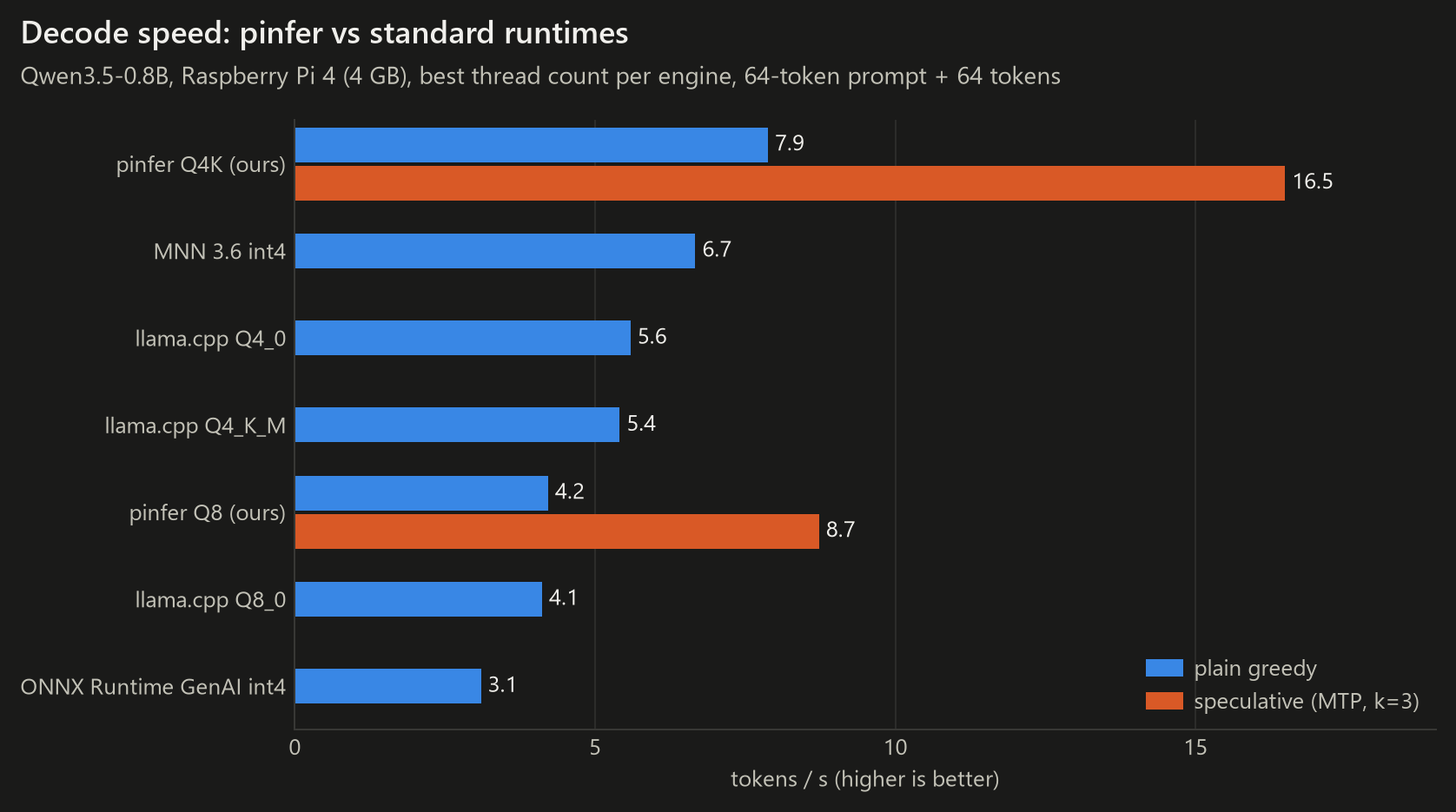
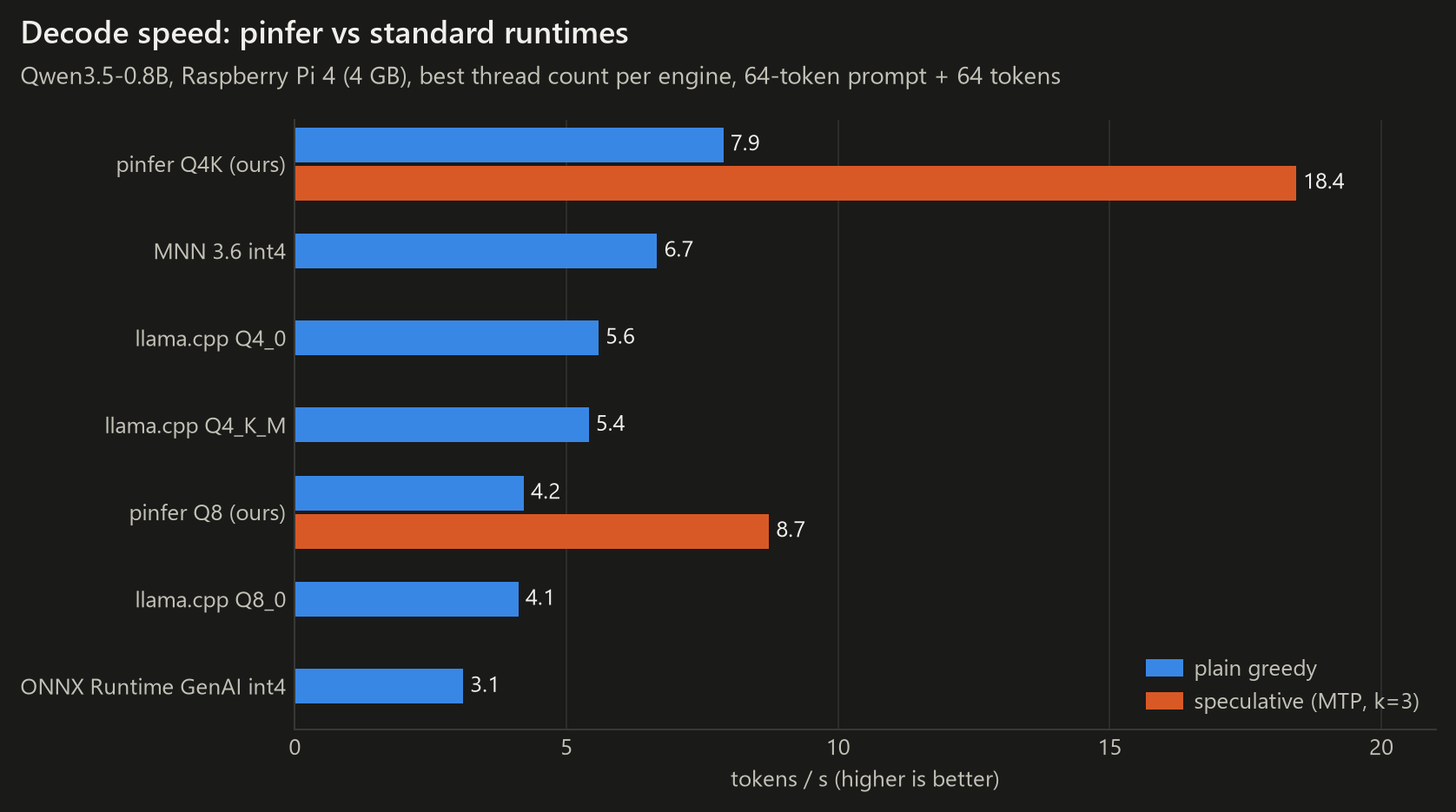
docs: README, figures and results for the merged build (18.4 tok/s, fp16 88% at 4096, pinfer serve)
- Figures re-rendered from new data, desktop and phone, light and dark: decode 18.43 tok/s
  speculative, progress with the cheaper verify pass, k sweep after it (k=3 18.2), verify pass
  153 ms = 1.20x a plain step, context length after attention round 3 (82% / 87% at 4096).
- README: title 18 tok/s; separate rows for prose continuation (18.4) and chat answers (9.9-13.5,
  k=2 best) so the headline is not read as typical chat speed; how the verify pass rolls back
  without copying state; long-context table and the met 85% target (fp16); pinfer serve usage
  with the openai SDK and the multi-turn reuse numbers; roadmap.
- docs/RESULTS.md, notes.md scoreboard and journal updated with the result files.

diff --git a/tools/make_figures.py b/tools/make_figures.py
@@ -41,7 +41,7 @@ logger = logging.getLogger(__name__)
 # ---------------------------------------------------------------- data (Pi 4, 4 threads, 64+64 tokens)
 # (label, plain tok/s, speculative tok/s or None, perplexity or None, source)
 ENGINES = [
-    ("pinfer Q4K (ours)", 7.88, 16.49, 18.50, "pinfer-final2-q4k_20261022_023950"),
+    ("pinfer Q4K (ours)", 7.89, 18.43, 18.50, "speed-ab-merge4_20261022_103609"),
     ("pinfer Q8 (ours)", 4.22, 8.73, 17.96, "pinfer-fast-q8-headq8_20261021_235144"),
     ("MNN 3.6 int4", 6.67, None, None, "mnn-qwen35-0.8b-int4_20261021_221038"),
     ("llama.cpp Q4_K_M", 5.41, None, 18.59, "llamacpp-qwen35-0.8b-Q4_K_M_20261021_213929"),
@@ -49,28 +49,32 @@ ENGINES = [
     ("llama.cpp Q8_0", 4.12, None, 17.97, "llamacpp-qwen35-0.8b-Q8_0_20261021_214506"),
     ("ONNX Runtime GenAI int4", 3.10, None, None, "ort-qwen35-0.8b-int4-acc4_20261021_222410"),
 ]
-PREFILL = {"pinfer Q4K (ours)": 37.4, "MNN 3.6 int4": 30.9, "llama.cpp Q8_0": 17.1,
+PREFILL = {"pinfer Q4K (ours)": 37.1, "MNN 3.6 int4": 30.9, "llama.cpp Q8_0": 17.1,
            "llama.cpp Q4_0": 15.7, "llama.cpp Q4_K_M": 14.8, "ONNX Runtime GenAI int4": 9.9}
 # Optimization steps in order (desktop label, phone label, plain, speculative); 2026-10-21/22
+# Phone labels stay within ~7 characters: six slots share a 360 px column.
 PROGRESS = [
-    ("scalar C\nbf16", "scalar C\nbf16", 1.55, None),
+    ("scalar C\nbf16", "scalar\nbf16", 1.55, None),
     ("NEON\nbf16", "NEON\nbf16", 2.27, 4.13),
-    ("Q4K\nweights", "Q4K\nweights", 6.83, 11.57),
+    ("Q4K\nweights", "Q4K", 6.83, 11.57),
     ("bit-exact kernels\n+ NEON recurrence", "exact\nkernels", 7.26, 13.35),
-    ("vectorized\nper-token ops", "vectorized\nops", 7.88, 16.49),
+    ("vectorized\nper-token ops", "vector\nops", 7.88, 16.49),
+    ("cheaper\nverify pass", "faster\nverify", 7.89, 18.43),  # speed-ab-merge4_20261022_103609
 ]
 # Context length sweep, Q4K, wikitext prompt of N tokens then 32 generated (engine/CONTEXT.md Summary).
-# After: final binary (ctx, plain fp32 KV, plain fp16 KV or None, prefill) — pinfer-ctx7-*, pinfer-final-kv*,
-# 8192 decode = mean of 3 decode-only runs from a saved state (CONTEXT.md §3d).
-CONTEXT = [(64, 7.88, 7.90, 37.3), (512, 7.69, 7.67, 36.8), (2048, 7.13, None, 32.3),
-           (4096, 6.38, 6.65, 28.0), (8192, 5.30, 5.72, 22.0)]
+# After: attention round 3 (ctx, plain fp32 KV, plain fp16 KV, fp32 prefill) — decode = medians of 3 rounds
+# from saved states (att3-final-ab-ctx{64,2048-4096,8192}_20261022_10*), prefill single runs (CONTEXT.md §9);
+# 512 from the first rewrite (pinfer-ctx512-new-q4k, pinfer-final-kv{0,1}-ctx512): not re-measured.
+CONTEXT = [(64, 7.87, 7.88, 36.3), (512, 7.69, 7.67, 36.8), (2048, 7.10, 7.36, 32.7),
+           (4096, 6.43, 6.86, 29.9), (8192, 5.34, 6.07, 24.3)]
 # Before: the vectorized binary before the context work (ctx, plain, prefill) — pinfer-final2-q4k (64),
 # pinfer-ctx2048-profile-q4k (2048), pinfer-ctx4096-q4k (4096); 512 was only run with an older binary.
 CONTEXT_BEFORE = [(64, 7.88, 37.4), (2048, 6.57, 25.7), (4096, 5.56, 18.1)]
 # llama.cpp Q4_K_M token generation at the same KV depth (f16 KV, its default) — llamacpp-ctx-d*
 LLAMA_CTX = [(64, 5.48), (512, 5.23), (2048, 4.32), (4096, 3.43)]
-# Speculative k sweep on the Q4K default (pinfer-final2-q4k): k, tokens per pass, tok/s
-KSWEEP = [(0, 1.00, 7.88), (2, 2.63, 14.51), (3, 3.32, 16.49), (4, 3.94, 15.65)]
+# Speculative k sweep on the Q4K default after the cheaper verify pass (ver1-ksweep_20261022_074459,
+# prompt64; tokens per pass are unchanged by it, output identical): k, tokens per pass, tok/s
+KSWEEP = [(0, 1.00, 7.94), (2, 2.63, 16.25), (3, 3.32, 18.23), (4, 3.94, 15.85)]
 
 
 def fig_decode(t: Theme, L: Layout) -> None:
@@ -78,8 +82,8 @@ def fig_decode(t: Theme, L: Layout) -> None:
     rows = sorted(ENGINES, key=lambda r: -r[1])
     fig, ax = new_fig(t, L, 460 if L.mobile else 410)
     style(ax, t, xlabel="tokens / s (higher is better)", grid="x")
-    ax.set_xlim(0, 19)
-    ax.set_xticks([0, 5, 10, 15])
+    ax.set_xlim(0, 21)
+    ax.set_xticks([0, 5, 10, 15, 20])
     keys = [Patch(color=t.blue, label="plain greedy"), Patch(color=t.orange, label="speculative (MTP, k=3)")]
     rect = header(fig, t, L, "Decode speed: pinfer vs standard runtimes",
                   "Qwen3.5-0.8B, Raspberry Pi 4 (4 GB), best thread count per engine, 64-token prompt + 64 tokens",
@@ -141,8 +145,8 @@ def fig_speed_quality(t: Theme, L: Layout) -> None:
             _dot_key(t.blue, "pinfer, speculative", "^")]
     style(ax, t, ylabel="decode tokens / s", xlabel="perplexity, wikitext-2 (lower is better)")
     ax.set_xlim(*((17.6, 21.9) if L.mobile else (17.5, 22.5)))
-    ax.set_ylim(0, 18.5)
-    ax.set_yticks([0, 5, 10, 15])
+    ax.set_ylim(0, 21)
+    ax.set_yticks([0, 5, 10, 15, 20])
     rect = header(fig, t, L, "Speed vs quality",
                   "Perplexity on wikitext-2 (8 × 512 tokens, llama-perplexity protocol); pinfer Q4K sits at "
                   "Q4_K_M quality", handles=keys if L.mobile else None, ncol=2)
@@ -177,8 +181,8 @@ def fig_progress(t: Theme, L: Layout) -> None:
     ax.set_xticks(x, [p[1] if L.mobile else p[0] for p in PROGRESS])
     style(ax, t, ylabel="tokens / s")
     ax.set_xlim(-0.45, len(PROGRESS) - 0.55)
-    ax.set_ylim(0, 19)
-    ax.set_yticks([0, 5, 10, 15])
+    ax.set_ylim(0, 21)
+    ax.set_yticks([0, 5, 10, 15, 20])
     keys = [line_key(t.blue, "plain greedy"), line_key(t.orange, "speculative (k=3)")]
     rect = header(fig, t, L, "How the speed was built up",
                   "Each step verified against the fp32 reference (per-layer error ≤ 3e-6) and, for speculation, "
@@ -234,7 +238,7 @@ def fig_context(t: Theme, L: Layout) -> None:
             line_key(t.orange, "llama.cpp Q4_K_M")]
     rect = header(fig, t, L, "Speed vs context length, before and after the attention rewrite",
                   "Qwen3.5-0.8B Q4K, Pi 4, 4 threads: an N-token wikitext prompt, then 32 generated tokens. "
-                  "At 4096 tokens decode keeps 81% (fp32) / 84% (fp16) of its short-context speed",
+                  "At 4096 tokens decode keeps 82% (fp32) / 87% (fp16) of its short-context speed",
                   handles=keys, ncol=1 if L.mobile else 2)
     save(fig, t, L, "context_length", rect)
 
@@ -251,7 +255,7 @@ def fig_kspeed(t: Theme, L: Layout) -> None:
     ks = [k for k, _, _ in KSWEEP]
     colors = [t.blue if k == 0 else t.orange for k in ks]  # plain = blue, speculative = orange, as in every figure
     for ax, head, top, yt in ((a1, "Tokens accepted per weight pass", 4.6, [0, 1, 2, 3, 4]),
-                              (a2, "Decode tokens / s", 19, [0, 5, 10, 15])):
+                              (a2, "Decode tokens / s", 21, [0, 5, 10, 15, 20])):
         ax.set_xticks(ks, ["plain", "k=2", "k=3", "k=4"])
         style(ax, t)
         panel_title(ax, t, head)

diff --git a/tools/make_figures2.py b/tools/make_figures2.py
@@ -47,11 +47,13 @@ from figstyle import (
 
 logger = logging.getLogger(__name__)
 
-# Per-token time, ms, Q4K, 4 threads (engine/CORE.md final profile; verify pass = k=3, 4 positions)
+# Per-token time, ms, Q4K, 4 threads (plain: engine/CORE.md final profile; verify pass = k=3, 4 positions,
+# after the cheaper verify pass: 152.9 ms per pass, recurrence 13.7, other 8.5 — engine/VERIFY.md "Result" and §5,
+# ver3-profile_20261022_081052; the deferred commit adds 1.9 ms per round)
 STEP_PLAIN = [("weight streaming (matmul)", 118.6), ("recurrent state (18 linear-attn layers)", 6.5),
               ("everything else (norms, SiLU, attention, argmax)", 3.2)]
-STEP_VERIFY = [("weight streaming (matmul)", 129.0), ("recurrent state (18 linear-attn layers)", 22.8),
-               ("everything else (norms, SiLU, attention, argmax)", 8.4)]
+STEP_VERIFY = [("weight streaming (matmul)", 130.7), ("recurrent state (18 linear-attn layers)", 13.7),
+               ("everything else (norms, SiLU, attention, argmax)", 8.5)]
 # Kernel weight-streaming speed, GB/s, cold weights, real shapes (KERNELS.md v9/v11)
 KERNEL_GBS = [("Q8 (8.5 bit)", 4.33, 1), ("Q4K (4.5 bit)", 3.91, 3), ("Q4 (4.5 bit)", 3.91, 3),
               ("bf16", 3.94, 2), ("fp32", 3.86, 2)]
@@ -93,7 +95,7 @@ def fig_step_breakdown(t: Theme, L: Layout) -> None:
     ax.set_xlim(0, 166 if L.mobile else 200)
     keys = [Patch(color=c, label=n) for (n, _), c in zip(STEP_PLAIN, colors)]
     rect = header(fig, t, L, "Where a token's time goes",
-                  "Reading 437 MB of weights dominates; verifying 3 drafts (4 positions) costs only 1.24× one token",
+                  "Reading 437 MB of weights dominates; verifying 3 drafts (4 positions) costs only 1.20× one token",
                   handles=keys, ncol=1 if L.mobile else 2)
     unit, name_h = hbar_axis(ax, L, names, rect)
     for i, (_, parts) in enumerate(rows):

diff --git a/README.md b/README.md
@@ -1,4 +1,4 @@
-# piquant — Qwen3.5-0.8B at 16 tokens/s on a Raspberry Pi 4
+# piquant — Qwen3.5-0.8B at 18 tokens/s on a Raspberry Pi 4
 
 **pinfer** is a C inference engine and Python package written for one board: the Raspberry Pi 4
 (Cortex-A72, NEON only, 4 GB, ~4.2 GB/s of memory bandwidth). It runs the hybrid Qwen3.5-0.8B
@@ -11,13 +11,14 @@ Repository: private, `github.com/Optimizer077/piquant` · engine and package: `p
 | | pinfer (Q4K) | llama.cpp Q4_K_M | MNN int4 |
 |---|---|---|---|
 | Decode, plain greedy | **7.9 tok/s** | 5.4 | 6.7 |
-| Decode, speculative (exact) | **16.5 tok/s** | — | — |
+| Decode, speculative (exact), prose continuation | **18.4 tok/s** | — | — |
+| Decode, speculative (exact), chat answers | **9.9–13.5 tok/s** | — | — |
 | Prefill (prompt reading) | **37 tok/s** | 15 | 31 |
-| Decode after a 4096-token context, plain | **6.4 tok/s** | 3.4 | n/a |
+| Decode after a 4096-token context, plain | **6.4 tok/s** (6.9 with fp16 KV) | 3.4 | n/a |
 | Perplexity, wikitext-2 | 18.50 | 18.59 | n/a |
 
 *Raspberry Pi 4 Model B Rev 1.1, stock Raspberry Pi OS kernel, 64-token prompt, 64 generated tokens (the
-4096-token row: 32), each engine at its best thread count (4 for pinfer; MNN's 6.7 is at 2 threads, 6.3 at
+4096-token row: 32; chat answers: 6 chat-templated prompts, 96 tokens, k=2), each engine at its best thread count (4 for pinfer; MNN's 6.7 is at 2 threads, 6.3 at
 4). Every number has a result file in `bench/results/`: all of them with sources in
 [docs/RESULTS.md](docs/RESULTS.md).*
 
@@ -25,7 +26,7 @@ Repository: private, `github.com/Optimizer077/piquant` · engine and package: `p
   <source media="(max-width: 600px) and (prefers-color-scheme: dark)" srcset="docs/figures/decode_speed-mobile-dark.png">
   <source media="(max-width: 600px)" srcset="docs/figures/decode_speed-mobile.png">
   <source media="(prefers-color-scheme: dark)" srcset="docs/figures/decode_speed-dark.png">
-  <img alt="On a Raspberry Pi 4, pinfer Q4K decodes 7.9 tokens/s plain and 16.5 tokens/s with exact speculative decoding, ahead of MNN int4 (6.7), llama.cpp (4.1–5.6) and ONNX Runtime GenAI int4 (3.1)." src="docs/figures/decode_speed.png">
+  <img alt="On a Raspberry Pi 4, pinfer Q4K decodes 7.9 tokens/s plain and 18.4 tokens/s with exact speculative decoding, ahead of MNN int4 (6.7), llama.cpp (4.1–5.6) and ONNX Runtime GenAI int4 (3.1)." src="docs/figures/decode_speed.png">
 </picture>
 
 ## Contents
@@ -121,8 +122,8 @@ accumulators per row (no gain). Lab notebook: `engine/bench/KERNELS.md`.
   <img alt="In one speculative round the MTP head drafts 3 tokens, the full model checks all 4 positions in a single weight pass, and the matching prefix plus one of its own tokens is kept: 3.3 tokens per round on average, identical to plain greedy output." src="docs/figures/speculative_schematic.png">
 </picture>
 
-Because the Pi is bandwidth-bound, scoring four positions in one pass costs 1.24× scoring one
-(160 ms vs 128 ms). Qwen3.5's MTP head drafts 3 tokens for 25–27 ms; the full model verifies all of them
+Because the Pi is bandwidth-bound, scoring four positions in one pass costs 1.20× scoring one
+(153 ms vs 128 ms). Qwen3.5's MTP head drafts 3 tokens for 25–27 ms; the full model verifies all of them
 in one batched pass and keeps the longest correct prefix plus one token of its own. Every kept token is
 the full model's own greedy choice, so the output is token-for-token identical to plain decoding.
 
@@ -137,14 +138,16 @@ Two details matter in practice. The draft step only considers the first 32,768 t
 English and code live). That costs some acceptance on varied text — first-draft acceptance 87% → 76%,
 2.86 → 2.37 tokens per pass at k=3 over 7 prompts (`engine/SPEC.md` §3) — but each draft becomes ~5× cheaper
 and the net speed was best on all three test prompts. And rejected drafts must
-roll back the 19 MB recurrent state exactly — pinfer logs each rank-1 state update during the verify
-pass and replays only the accepted ones, instead of copying state.
+roll back the 19 MB recurrent state exactly. pinfer never copies the state: the first position of a
+verify pass is always kept, so it updates the state in place; the drafts run on 16 KB per-thread copies
+of each state chunk; and the accepted updates are folded into the layer's next pass, so a round reads
+and writes the state once, like a plain step (`engine/VERIFY.md`).
 
 <picture>
   <source media="(max-width: 600px) and (prefers-color-scheme: dark)" srcset="docs/figures/speculative_k-mobile-dark.png">
   <source media="(max-width: 600px)" srcset="docs/figures/speculative_k-mobile.png">
   <source media="(prefers-color-scheme: dark)" srcset="docs/figures/speculative_k-dark.png">
-  <img alt="More drafts per round raise tokens per weight pass from 2.63 at k=2 to 3.94 at k=4, but decode speed peaks at k=3 with 16.5 tokens/s." src="docs/figures/speculative_k.png">
+  <img alt="More drafts per round raise tokens per weight pass from 2.63 at k=2 to 3.94 at k=4, but decode speed peaks at k=3 with 18.2 tokens/s." src="docs/figures/speculative_k.png">
 </picture>
 
 ### 2.4 Where the remaining time goes
@@ -152,7 +155,7 @@ pass and replays only the accepted ones, instead of copying state.
   <source media="(max-width: 600px) and (prefers-color-scheme: dark)" srcset="docs/figures/step_breakdown-mobile-dark.png">
   <source media="(max-width: 600px)" srcset="docs/figures/step_breakdown-mobile.png">
   <source media="(prefers-color-scheme: dark)" srcset="docs/figures/step_breakdown-dark.png">
-  <img alt="A plain decode step takes 128 ms, 119 ms of it streaming weights, and a speculative verify pass over 4 positions takes 160 ms, only 1.24× one token." src="docs/figures/step_breakdown.png">
+  <img alt="A plain decode step takes 128 ms, 119 ms of it streaming weights, and a speculative verify pass over 4 positions takes 153 ms, only 1.20× one token." src="docs/figures/step_breakdown.png">
 </picture>
 
 After vectorizing the recurrence (a NEON gated-delta-rule kernel, chunk-major so a 16 KB state chunk
@@ -165,7 +168,7 @@ step is 119 ms of weight streaming plus 10 ms of everything else — about 12% f
   <source media="(max-width: 600px) and (prefers-color-scheme: dark)" srcset="docs/figures/progress-mobile-dark.png">
   <source media="(max-width: 600px)" srcset="docs/figures/progress-mobile.png">
   <source media="(prefers-color-scheme: dark)" srcset="docs/figures/progress-dark.png">
-  <img alt="Each verified optimization step raised decode speed, from 1.6 tokens/s in scalar C to 7.9 tokens/s plain and 16.5 tokens/s speculative after vectorizing the per-token ops." src="docs/figures/progress.png">
+  <img alt="Each verified optimization step raised decode speed, from 1.6 tokens/s in scalar C to 7.9 tokens/s plain and 18.4 tokens/s speculative after making the verify pass cheaper." src="docs/figures/progress.png">
 </picture>
 
 <picture>
@@ -182,6 +185,22 @@ step is 119 ms of weight streaming plus 10 ms of everything else — about 12% f
   <img alt="pinfer reads a 64-token prompt at 37.4 tokens/s, ahead of MNN int4 (30.9), llama.cpp (14.8–17.1) and ONNX Runtime GenAI int4 (9.9)." src="docs/figures/prefill_speed.png">
 </picture>
 
+**Speculation depends on the text.** The 18.4 tok/s above is a prose continuation, where the MTP head
+is right 3.3 times per pass. On chat answers it is right less often (1.8–2.6 tokens per pass), so the gain
+is 1.25–1.7× and **k=2 beats k=3 on every chat prompt** (k=2 is the library default):
+
+| chat answer | plain | speculative k=2 | k=3 |
+|---|---|---|---|
+| explain (chat27) | 8.0 | **9.9** | 9.2 |
+| Python code | 7.9 | **11.7** | 11.2 |
+| C code | 7.9 | **12.2** | 12.0 |
+| list of 10 items | 7.7 | **11.2** | 10.4 |
+| step-by-step math | 7.9 | **13.5** | 13.2 |
+| short story | 7.7 | **10.0** | 9.2 |
+
+*Tokens/s, 96 generated tokens, measured before the cheaper verify pass (`notes.md` "Speculative decoding
+on chat prompts"); a full-vocabulary draft gains only 0–9% acceptance and is 30% slower overall.*
+
 **Standard runtimes on the same board** (`bench/BASELINES.md`): MNN 3.6.1 is the strongest, 6.67 tok/s
 decode and 30.9 prefill; llama.cpp v0.7.0 reaches 5.4–5.6 decode; ONNX Runtime GenAI 0.18 int4 3.1;
 LiteRT-LM's prebuilt wheels abort on the A72 (they require ARMv8.2 features); PyTorch fp32 runs but
@@ -193,7 +212,7 @@ needs 4.8 GB of RAM.
   <source media="(max-width: 600px) and (prefers-color-scheme: dark)" srcset="docs/figures/context_length-mobile-dark.png">
   <source media="(max-width: 600px)" srcset="docs/figures/context_length-mobile.png">
   <source media="(prefers-color-scheme: dark)" srcset="docs/figures/context_length-dark.png">
-  <img alt="After the attention rewrite, plain decode at a 4096-token context is 6.4 tokens/s with the exact fp32 KV cache and 6.7 with fp16 (5.6 before; llama.cpp 3.4), and prefill of a 4096-token prompt is 28 tokens/s (18 before)." src="docs/figures/context_length.png">
+  <img alt="After the attention rewrites, plain decode at a 4096-token context is 6.4 tokens/s with the exact fp32 KV cache and 6.9 with fp16 (5.6 before; llama.cpp 3.4), and prefill of a 4096-token prompt is 30 tokens/s (18 before)." src="docs/figures/context_length.png">
 </picture>
 
 Only 6 of the 24 layers keep a KV cache (24 KB per token in fp32), so memory grows slowly: 528 MB of
@@ -201,24 +220,25 @@ RAM at 4096 tokens, 625 MB at 8192. The first sweep still lost 29% of decode spe
 cause was not the cache's size but how it was read: the attention loop streamed a group's whole K and V
 from DRAM once per query head and once per token (26.5 ms per step at 2048 tokens). The rewrite
 (`engine/src/forward_attn.c`) reads each K/V row once per block of 8 tokens and shares it among the
-4 query heads of its group. The arithmetic per element is unchanged, so the output is bit-identical.
+4 query heads of its group. A second round split P·V by columns (each V value read once for all 4 heads),
+removed a register spill in the fp16 dot and gave softmax its own pass. The arithmetic per element is
+unchanged, so the output is bit-identical.
 
-| context | plain decode, fp32 / fp16 KV | prefill | speculative k=3, fixed / adaptive | llama.cpp Q4_K_M decode |
-|---|---|---|---|---|
-| 64 | 7.9 / 7.9 | 37 | 16.8 / 16.4 | 5.5 |
-| 512 | 7.7 / 7.7 | 37 | 15.2 | 5.2 |
-| 2048 | 7.1 | 32 | 9.1 / **9.6** | 4.3 |
-| 4096 | 6.4 / 6.7 | 28 | 7.4 / **7.5** | 3.4 |
-| 8192 | 5.3 / 5.7 | 22 | 7.2 | — |
+| context | plain decode, fp32 / fp16 KV | prefill | llama.cpp Q4_K_M decode |
+|---|---|---|---|
+| 64 | 7.9 / 7.9 | 36 | 5.5 |
+| 512 | 7.7 / 7.7 | 37 | 5.2 |
+| 2048 | 7.1 / 7.4 | 33 | 4.3 |
+| 4096 | 6.4 / **6.9** | 30 | 3.4 |
+| 8192 | 5.3 / 6.1 | 24 | — |
 
-*Tokens/s, wikitext prompt of N tokens; at 2048 and 4096 the speculative columns are the 64-token
-runs. Sources: `engine/CONTEXT.md` Summary.*
+*Tokens/s, wikitext prompt of N tokens, 32 generated; medians of 3 rounds (`engine/CONTEXT.md` §9;
+512: first rewrite). Speculation at 2048 tokens: 9.6 tok/s fixed k=3, 10.7 adaptive.*
 
-- **The 4096-token target (at least 85% of short-context speed) is narrowly missed:** fp32 reaches 81%
-  and fp16 84.4%. With fp32, streaming the cache alone caps it at ~84.5%, so only a smaller cache can
-  get there.
+- **The 4096-token target (at least 85% of short-context speed) is met with an fp16 cache: 87–88%.**
+  The default fp32 cache reaches 82%; streaming it caps fp32 at about 83% on this board.
 - **KV cache precision is opt-in** (`kv_dtype="fp16"` / `"int8"`, `--kv-dtype`). fp16 matches fp32
-  perplexity (13.983 vs 13.985 on 8 × 2048 tokens), halves the cache and is 5–8% faster from 4096
+  perplexity (13.983 vs 13.985 on 8 × 2048 tokens), halves the cache and is 7–14% faster from 4096
   tokens up. fp32 stays the default because fp16 changes greedy output at the first near-tie.
 - **Saved state for chat and long documents.** `save_state()` / `load_state()` snapshot the KV cache and
   the recurrent state. A 2048-token context saves to 70.5 MB and restores in 0.1 s, against 63 s to
@@ -297,7 +317,28 @@ for q in ("Summarize it.", "List the warnings."):
 The C API (`engine/include/pinfer.h`) takes token ids and returns logits or generated ids; the Python
 package adds the tokenizer, sampling, the Qwen chat template, streaming, `generate(speculative=True)`
 and state snapshots.
-Full guide: [docs/library.md](docs/library.md). Not published yet; no license chosen.
+
+**As a local OpenAI-compatible server** (`pinfer serve`; streaming, `/v1/chat/completions`,
+`/v1/completions`, `/v1/models`), any OpenAI client can use the Pi:
+
+```bash
+# Pi
+pinfer serve -m models/qwen35-0.8b-q4k-headq4k.pq --tokenizer models/qwen35-0.8b-tokenizer     --host 0.0.0.0 --port 8080 --api-key "$PINFER_API_KEY"     # default host 127.0.0.1
+```
+
+```python
+# any machine on the network
+from openai import OpenAI
+client = OpenAI(base_url="http://<pi-address>:8080/v1", api_key="<the same key>")
+reply = client.chat.completions.create(model="qwen35-0.8b-q4k-headq4k",
+                                       messages=[{"role": "user", "content": "Hi!"}])
+```
+
+The server keeps each reply as the exact tokens it generated, so the next turn of a conversation only
+reads the new message: turn 4 of a chat starts after **0.95 s instead of 6.9 s** when the history is
+re-read, and a memory-bounded cache of saved states keeps alternating conversations fast (1.0 vs 3.5 s).
+
+Full guide: [docs/library.md](docs/library.md) (§10: server). Not published yet; no license chosen.
 
 ## 7. Methodology and records
 
@@ -327,9 +368,9 @@ engine/include/pinfer.h   public C API              engine/src/      loader, for
 engine/FORMAT.md          .pq format + exact math                     decoding, NEON kernels and per-token ops
 engine/tools/             pinfer_run (CLI, bench), pinfer_ppl (perplexity)
 engine/bench/             kbench, lbench, spec_exact.sh, KERNELS.md
-python/                   pip package `pinfer` (ctypes, tokenizer, chat, streaming, CLI)
+python/                   pip package `pinfer` (ctypes, tokenizer, chat, streaming, CLI, OpenAI server)
 tools/                    convert.py, quant.py, make_figures*.py
-ref/                      fp32 golden reference    tests/           golden, spec, state, Python suite (85 tests)
+ref/                      fp32 golden reference    tests/           golden, spec, state, malformed input, long context, Python suite (126 tests)
 bench/                    llama.cpp / MNN / ORT / LiteRT / PyTorch baselines, perplexity, results/*.json
 harness/pi.py             PC-side control of the Pi, auto-logged
 os/stock/  os/pc/         flashing + headless first boot; direct-cable network
@@ -339,8 +380,10 @@ docs/                     design, library guide, journal, pi-state, figures
 
 ## 9. Status and roadmap
 - Done: engine, kernels, exact speculative decoding, Python package and CLI, baselines, OS experiment,
-  context window (attention rewrite, fp16/int8 KV cache, state snapshots, keep-state chat, adaptive k).
-- Next: engine hardening before a release (issue #11); a cheaper verify pass (#5); n-gram drafting next
-  to the MTP head (#6); a bounded-context mode for unbounded chats (`engine/CONTEXT.md` §7).
-- Open decisions: license; public release.
+  context window (two attention rewrites, fp16/int8 KV cache, state snapshots, keep-state chat, adaptive k),
+  hardening for malformed input (version 0.2.0), a cheaper verify pass (18.4 tok/s), `pinfer serve`.
+- Next: n-gram / prompt-lookup drafting next to the MTP head for chat and code (#6); adaptive k that is
+  never below the best fixed k on chat (#2); Qwen3.5-2B (#7); a bounded-context mode for unbounded chats
+  (`engine/CONTEXT.md` §7).
+- Open decisions: license (#8); public release and release assets (#9); overclocking (#10).
 - Reproducing everything from a blank SD card / SSD: [docs/REPRODUCE.md](docs/REPRODUCE.md).

diff --git a/docs/journal/2026-10-22.md b/docs/journal/2026-10-22.md
@@ -207,3 +207,4 @@ in `bench/results/`.
   P·V gap (page placement; huge pages unavailable in this kernel).
 - Kernels at ~1.4× their FP count (GCC scheduling of 16-accumulator loops); assembly not tried.
 | 10:20–10:50 | **Lead: attention branch merged** (with verify pass + hardening already on main). Host gate: golden / spec / state PASS, pytest 126/126, malformed 43/43 (sanitizers), check-lib OK. Pi `pinfer_run_merge4` (md5 `23a76242`, checked on the Pi before gating): spec_exact 20/20 with the baseline md5s, dumps 5/5 identical to `pinfer_run_fast`, fp16 + int8 KV checks 6/6 identical; prompt64 plain 7.89 vs 7.88, speculative k=3 **18.43** vs 16.72 tok/s (3 rounds, medians); 4096-token context plain fp32 6.40, fp16 **6.92** tok/s (fp16 = 88% of 7.89 → issue #1 met with fp16). Open: speculative-mode prefill of prompt64 33.6–35.5 vs 35.6–36.3 tok/s for the old binary (plain prefill unchanged, verify-only merge showed no gap) — within run-to-run spread, re-measure | `spec-exact-merge4_20261022_103203.json`, `ctx-check-merge4_…_103321.json`, `kv-check-merge4_…_103410.json`, `speed-ab-merge4_…_103609.json`, `ctx4096-merge4_…_104543.json` |
+| 10:55–11:15 | **Lead: docs refresh for the merged build.** Installed `pinfer_run_merge4` as the Pi's `engine/pinfer_run_fast` / `pinfer_ppl_fast` (previous kept as `*.pre-merge4`, md5 `9d30bbda`). Issue #1 closed (fp16 88% at 4096). Figures re-rendered from new data (decode 18.43, progress + "cheaper verify pass", k sweep after the change, verify pass 153 ms / 1.20×, context after round 3); 28 files = the 7 changed figures × 4 variants; checked by eye in both layouts; phone labels of the 6-step progress chart shortened (they ran together). README: title 18 tok/s, chat-answer row and table (k=2 best), verify-pass rollback explanation, long-context table and the met target, `pinfer serve` section; RESULTS.md, notes scoreboard updated | `README.md`, `docs/RESULTS.md`, `notes.md`, `tools/make_figures*.py` |

diff --git a/notes.md b/notes.md
@@ -78,7 +78,7 @@ tool cross-checked on 2 chunks: 15.1743 vs llama.cpp 15.1695).
 | Engine | Format | File | Decode tok/s plain | Decode tok/s MTP spec | Prefill tok/s | PPL (c8) |
 |---|---|---|---|---|---|---|
 | pinfer | Q4_G32 + Q4 head | 437 MB | **6.88** | **12.56** (k=3, dv 32768) | 21.3 | **21.61** (as bad as Q4_0) |
-| pinfer | **Q4K_G32 everywhere + Q4K head** | 437 MB | **7.88** | **16.49** (k=3, dv 32768) | 37.4 | **18.50** (18.48 before the NEON expf; difference 0.02 ≪ ±1.25) ← default (vectorized engine `fba8a1a`, `bench/results/pinfer-final2-q4k_20261022_023950.json`; earlier: 7.26 / 13.35 / 26.1 at `af06041`, 6.83 / 11.57 / 19.3 before the kernel follow-up) |
+| pinfer | **Q4K_G32 everywhere + Q4K head** | 437 MB | **7.89** | **18.43** (k=3, dv 32768) | 37.1 | **18.50** (18.48 before the NEON expf; difference 0.02 ≪ ±1.25) ← default (merged build `e1a8d2c` with the cheaper verify pass, `bench/results/speed-ab-merge4_20261022_103609.json`, 3 rounds, medians; earlier: 7.88 / 16.49 / 37.4 at `fba8a1a`, 7.26 / 13.35 / 26.1 at `af06041`, 6.83 / 11.57 / 19.3 before the kernel follow-up) |
 | pinfer | Q4_G32 layers + Q4K head | 437 MB | — | — | — | 21.58 (loss is in the layers) |
 | pinfer | Q4K (v_proj, mtp.fc Q8) + Q4K head | 439 MB | **6.88** | 10.98 (k=3, dv 32768) | 16.3 | **18.50** |
 | pinfer | same + Q8 head | 567 MB | 5.72 | 9.77 (k=3) | 13.7 | 18.29 |
